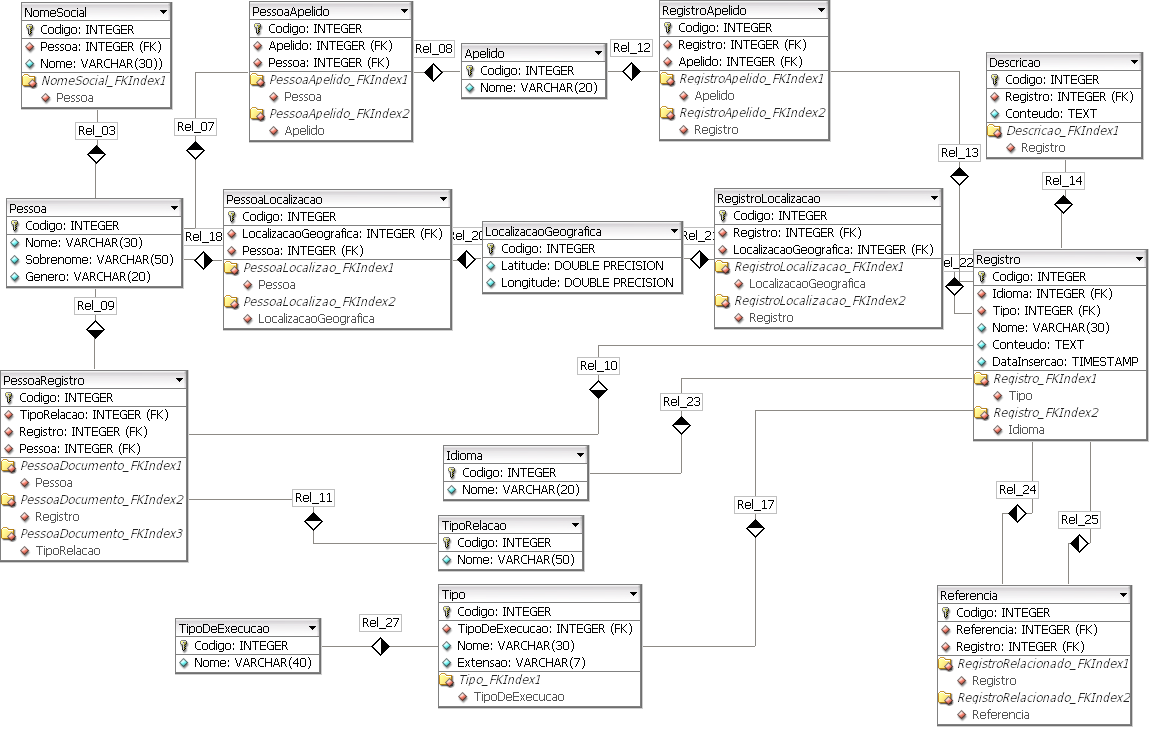
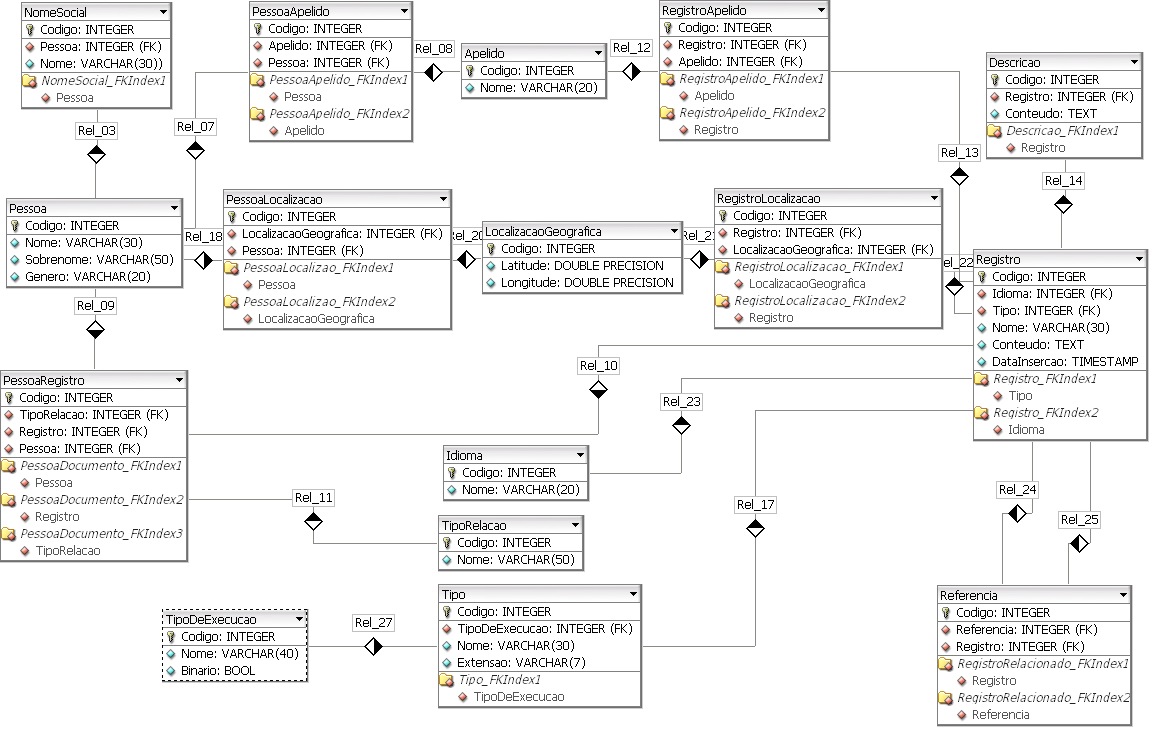
feat(ajustes tipo execucao)

Changed region(s): [[0.1248, 0.8082, 0.2808, 0.9279], [0.312, 0.8381, 0.3432, 0.898]]

diff --git a/DAL/Utils/Conversor.cs b/DAL/Utils/Conversor.cs
@@ -78,7 +78,8 @@ namespace BibliotecaViva.DAL.Utils
             return tipo != null ? new TipoExecucaoDTO()
             {
                 Codigo = tipo.Codigo,
-                Nome = tipo.Nome
+                Nome = tipo.Nome,
+                Binario = tipo.Binario
             } : null;
         }
         internal static Tipodeexecucao Mapear(TipoExecucaoDTO tipo)
@@ -86,7 +87,8 @@ namespace BibliotecaViva.DAL.Utils
             return tipo != null ? new Tipodeexecucao()
             {
                 Codigo = tipo.Codigo,
-                Nome = tipo.Nome
+                Nome = tipo.Nome,
+                Binario  = tipo.Binario
             } : null;
         }
         internal static Localizacaogeografica Mapear(LocalizacaoGeograficaDTO localizacaoGeografica)

diff --git a/DAO/bibliotecavivaContext.cs b/DAO/bibliotecavivaContext.cs
@@ -483,6 +483,8 @@ namespace BibliotecaViva.DAO
 
                 entity.Property(e => e.Codigo).HasColumnName("codigo");
 
+                entity.Property(e => e.Binario).HasColumnName("binario");
+
                 entity.Property(e => e.Nome)
                     .IsRequired()
                     .HasMaxLength(40)

diff --git a/DAO/Tipodeexecucao.cs b/DAO/Tipodeexecucao.cs
@@ -14,6 +14,7 @@ namespace BibliotecaViva.DAO
 
         public int Codigo { get; set; }
         public string Nome { get; set; }
+        public bool Binario { get; set; }
 
         public virtual ICollection<Tipo> Tipos { get; set; }
     }
